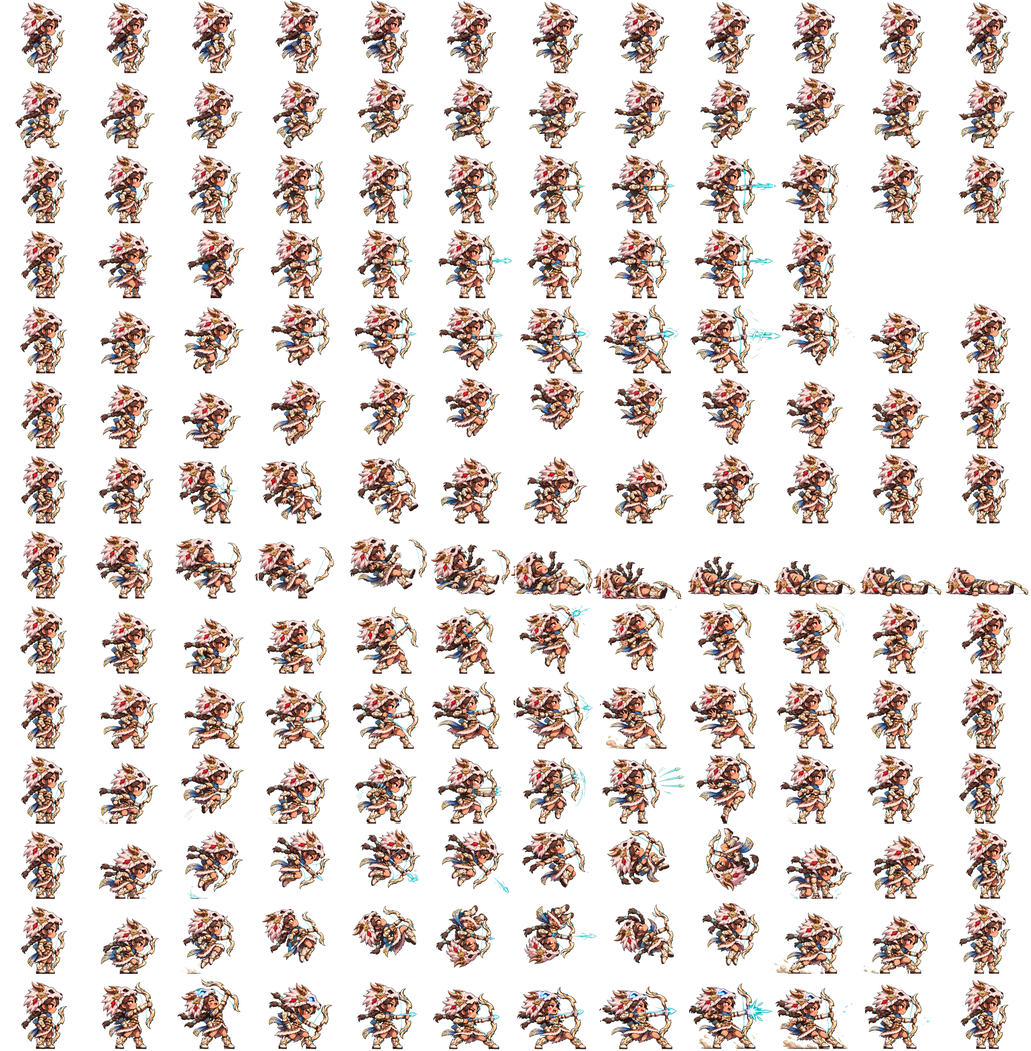
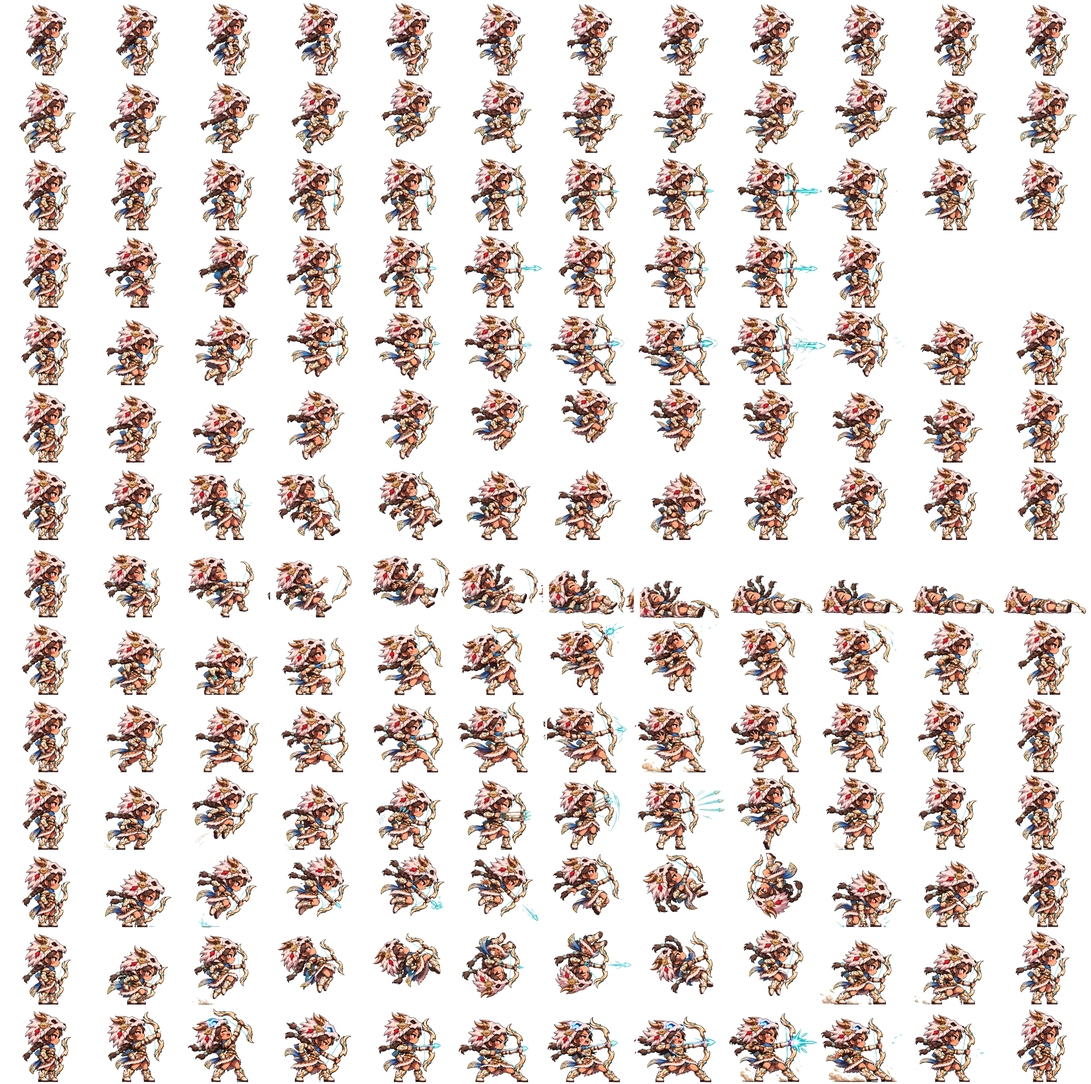
archer: match sheet sizes to idle, soft blend between moves (shot end no longer jumps)

diff --git a/hoodfall.html b/hoodfall.html
@@ -384,13 +384,20 @@ function drawShots(g) { const t = P.t + titleT;
     const tr = g.createLinearGradient(-L * 3, 0, 0, 0); tr.addColorStop(0, 'rgba(60,170,255,0)'); tr.addColorStop(1, 'rgba(120,210,255,.75)'); g.fillStyle = tr; g.fillRect(-L * 3, -wd, L * 3, wd * 2);
     if (a.big === 2) for (let i = 0; i < 3; i++) { g.strokeStyle = 'rgba(190,240,255,.55)'; g.lineWidth = 1.5; g.beginPath(); g.ellipse(-12 - i * 26 - (t * 200 % 26), 0, 5, 12 - i * 2, 0, 0, 7); g.stroke(); }
     g.fillStyle = '#e8fbff'; g.fillRect(-L, -1, L, 2); g.fillStyle = '#ffffff'; g.beginPath(); g.moveTo(5 + a.big * 2, 0); g.lineTo(-3, -3 - a.big); g.lineTo(-3, 3 + a.big); g.fill(); g.restore(); } }
+// when the move changes (a shot ends, run -> idle ...) the last drawn frame fades out over 110 ms instead of snapping (owner "ตอนยิงจบมันแปลกๆ"),
+// and idle restarts at its frame 0 (the ready stance the shot sheets end on)
+const DRW = {k: 'idle', row: 0, f: 0, idle0: 0, bl: null};
 function drawArcher() { if (!AJ || !ARC.width) return; if (H.inv && H.inv < .65 && Math.floor(P.t * 14) % 2) return;
-  let k = 'idle', f = Math.floor((P.t + titleT) * 8) % 12;
+  const now = performance.now() / 1000; let k = 'idle', f = 0;
   if (A.on) { k = A.mv; f = mvFrame(k, A.t); } else if (H.inv > .65) { k = 'hurt'; f = Math.floor((1 - H.inv) / .35 * 12); }
   else if (P.rope) { k = 'jump'; f = 6; } else if (!P.ground) { k = 'jump'; f = P.vy < -250 ? 3 : P.vy < 0 ? 5 : P.vy < 300 ? 6 : 8; } else if (P.run > 0) { k = 'run'; f = Math.floor(P.run * 15) % 12; }
-  const r = AJ.rows[k]; f = clamp(f, 0, r.n - 1); const sc = K / AJ.k;
+  if (k !== DRW.k) { DRW.bl = {row: DRW.row, f: DRW.f, t: now}; if (k === 'idle') DRW.idle0 = now; DRW.k = k; }
+  if (k === 'idle') f = Math.floor((now - DRW.idle0) * 8) % 12;
+  const r = AJ.rows[k]; f = clamp(f, 0, r.n - 1); DRW.row = r.row; DRW.f = f; const sc = K / AJ.k;
   ctx.save(); ctx.imageSmoothingEnabled = true; ctx.imageSmoothingQuality = 'high'; ctx.translate((Math.round(P.x) - Math.round(cam.x) + SH) * K, (Math.round(P.y) - Math.round(cam.y)) * K);
-  ctx.scale(P.face * sc, sc); ctx.drawImage(ARC, f * AJ.w, r.row * AJ.h, AJ.w, AJ.h, -AJ.fx, -AJ.fy, AJ.w, AJ.h); ctx.restore(); }
+  ctx.scale(P.face * sc, sc); const b = DRW.bl, bk = b ? (now - b.t) / .11 : 1;
+  if (b && bk < 1) { ctx.globalAlpha = 1 - bk; ctx.drawImage(ARC, b.f * AJ.w, b.row * AJ.h, AJ.w, AJ.h, -AJ.fx, -AJ.fy, AJ.w, AJ.h); ctx.globalAlpha = Math.min(1, .35 + bk); } else DRW.bl = null;
+  ctx.drawImage(ARC, f * AJ.w, r.row * AJ.h, AJ.w, AJ.h, -AJ.fx, -AJ.fy, AJ.w, AJ.h); ctx.restore(); }
 // ---------------------------------------------------------------- drawing
 let K = 2, VW = 0, VH = 0, DPR = 1, view = null, cam = {x: 0, y: 600};
 function resize() { DPR = Math.min(3, devicePixelRatio || 1); cv.width = innerWidth * DPR; cv.height = innerHeight * DPR; K = Math.max(1, Math.round(cv.height / 420)); VW = Math.ceil(cv.width / K); VH = Math.ceil(cv.height / K);

diff --git a/tools/art/archer_cut.py b/tools/art/archer_cut.py
@@ -46,10 +46,22 @@ hs = []
 for mv, k, rgb, a, gy, cx in cells:
     if mv == 'idle': ys = np.where(a.max(1) > .5)[0]; hs.append(gy - ys.min())
 S = BODY * OUT_K / np.median(hs)
+# Codex drew every sheet at a slightly different size and spot (owner: "ตอนยิงจบมันแปลกๆ", the body jumped when a shot ended):
+# match each sheet's FIRST frame (always the ready stance) to idle frame 0 in height and torso centre; the whole sheet gets that fix
+def stance(a, gy, cx):
+    b = (a > .5).sum(1) > 3; ys = np.where(b)[0]; top = ys.min(); h = gy - top
+    band = a[int(top + h * .35):int(top + h * .7)] > .5; xs = np.where(band)[1]; return h, np.median(xs) - cx
+first = {}
+for mv, k, rgb, a, gy, cx in cells: first.setdefault(mv, stance(a, gy, cx))
+FIX = {}
+for mv, (h, tx) in first.items():
+    r = float(np.clip(first['idle'][0] / h, .9, 1.12)) if mv not in ('death',) else 1.0
+    FIX[mv] = (r, first['idle'][1] - tx * r)    # scale, then shift so the torso lines up with idle's (raw px at idle scale)
+print({k: (round(v[0], 3), round(v[1], 1)) for k, v in FIX.items()})
 # common box around the anchor (feet), over all frames
 L = T = Rr = 0
 for mv, k, rgb, a, gy, cx in cells:
-    ys, xs = np.where(a > .1); L = min(L, xs.min() - cx); Rr = max(Rr, xs.max() - cx); T = min(T, ys.min() - gy)
+    r, dx = FIX[mv]; ys, xs = np.where(a > .1); L = min(L, (xs.min() - cx) * r + dx); Rr = max(Rr, (xs.max() - cx) * r + dx); T = min(T, (ys.min() - gy) * r)
 B = 6 / S
 fw, fh = int(np.ceil((Rr - L) * S)) + 4, int(np.ceil((-T + B) * S)) + 4
 fx, fy = int(np.ceil(-L * S)) + 2, int(np.ceil(-T * S)) + 2
@@ -63,12 +75,13 @@ for ri, mv in enumerate(MOVES):
         rgba = np.dstack([rgb, a * 255]).clip(0, 255).astype(np.uint8)
         im = Image.fromarray(rgba, 'RGBA')
         # premultiplied resize so keyed edges do not pick up green / dark fringes
-        sw, sh = max(1, round(im.width * S)), max(1, round(im.height * S))
+        r, dx = FIX[mv]; Sm = S * r
+        sw, sh = max(1, round(im.width * Sm)), max(1, round(im.height * Sm))
         pm = np.asarray(im).astype(float); pm[..., :3] *= pm[..., 3:4] / 255
         rs = np.asarray(Image.fromarray(pm.clip(0, 255).astype(np.uint8), 'RGBA').resize((sw, sh), Image.LANCZOS)).astype(float)
         al = rs[..., 3:4]; rs[..., :3] = np.where(al > 0, rs[..., :3] * 255 / np.maximum(al, 1), 0)
         im = Image.fromarray(rs.clip(0, 255).astype(np.uint8), 'RGBA')
-        px, py = round(fx - cx * S), round(fy - gy * S)
+        px, py = round(fx - cx * Sm + dx * S), round(fy - gy * Sm)
         frame = Image.new('RGBA', (fw, fh), (0, 0, 0, 0)); frame.paste(im, (px, py), im)
         sheet.alpha_composite(frame, (ci * fw, ri * fh))
 sheet.save(f'{DST}/archer.webp', quality=90, method=6)

diff --git a/docs/action-game.md b/docs/action-game.md
@@ -1524,3 +1524,4 @@ Open: redo campfire / fence / firewood / fern tree (4 credits) or clean them (ow
 - `tools/art/archer_cut.py`: green key + despill, ground line removed, feet on each cell's ground line, x = cell centre, body 80 world px (rabbit ~75) stored 3x -> `art/sidegame/archer.webp` + `.json` (14 rows: idle run shot1-3 jump hurt death skill_rain gale fan frost flip wolf). Re-run after Codex's shot2 fix.
 - `hoodfall.html`: the archer is the DEFAULT hero (`?hero=rabbit` = the old rabbit), drawn on the full-res canvas with smooth scaling (sharp, not pixelated). Attack = 3-shot combo (tap again to chain; arrows fly and hit, shot 3 pierces 3). Skills 1-6 play their own sheet: arrow rain (Meta clip `vfx_rain_sheet.webp`, 9 damage ticks in an area ahead), gale (huge piercing arrow, wind rings, push back), fan (5 arrows), frost bloom (ice spikes, freezes 2.2 s, she hops back), backflip shot (3 arrows down from the air), ULT spirit wolf (glowing wolf head dashes forward, x4.5 damage). Hit-stop / shake on heavy shots, hurt cancels the shot. Timing table `MV` (ms per frame, fire frames, held frames).
 - Thai map (owner "เกมด้านข้าง ธีมไทย"): first test in code, opt-in `?map=thai` (name ทุ่งนาวัดร้าง, zones ศาลาท่าน้ำ / ทุ่งนา / สวนมะพร้าว / วัดร้าง / ป่าช้า / บึงชาละวัน, Thai ghosts khamot / monkey / krahang / phrai / pret / croc_guard (punched copies in `art/sidegame/mobs/`), boss ชาละวัน = croc guard x2, warps ตลาดน้ำ / ป่าหิมพานต์ / อยุธยาร้าง / ต้นตะเคียน, dusk sky + temple skyline + palms + spirit houses + khom loi lanterns drawn in code). Owner then: "ก่อนทำแมพทำภาพรวมมาให้ดูก่อน เจนภาพใหญ่ก่อน แล้วค่อยเจนของมาประกอบฉาก" = a painted OVERVIEW first: GPT prompt `art/incoming/thai/PROMPT_GPT_map1_overview.txt` (painted 2D, the real 3-floor layout, all 6 zones). After the owner approves the overview: a props sheet prompt, then rebuild the Thai map from those pieces.
+- Owner "ตอนยิงจบมันแปลกๆ / มันแอนตัวแปลกๆ": Codex drew the idle sheet ~5% bigger and 8 px off from all the other sheets, so the body jumped when a move ended. `archer_cut.py` now matches every sheet's first frame (ready stance) to idle frame 0 in height + torso centre (the other sheets x1.05, shifted; idle unchanged, body still 80 world px). In `hoodfall.html` a move change fades the last frame out over 110 ms and idle restarts at frame 0. Preview `art/incoming/archer/combo_preview.gif` (idle -> 3-shot combo -> idle).
